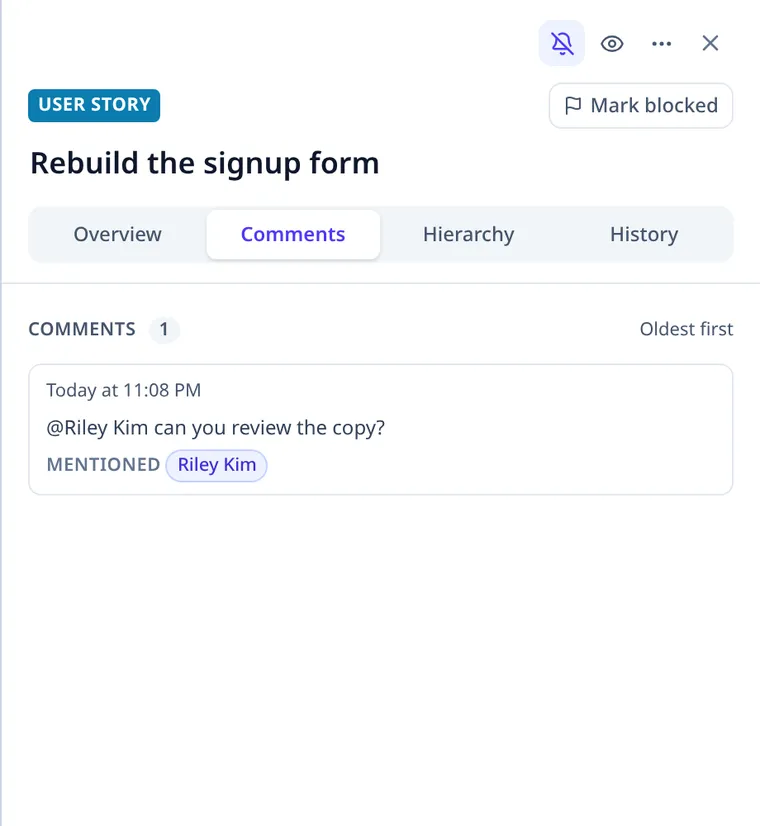
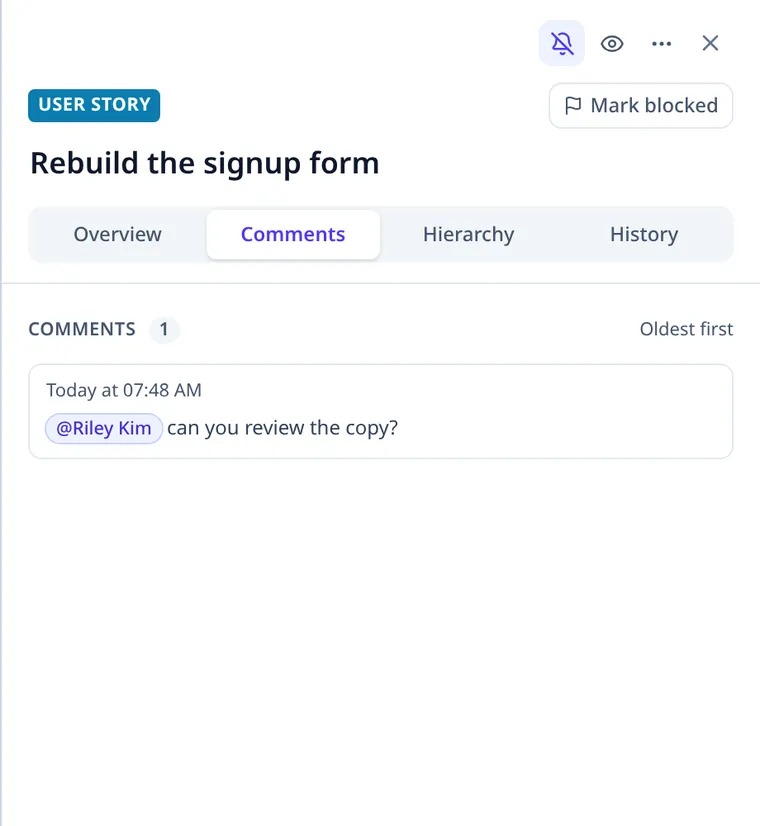
drawer: a mention is a pill in the sentence, not a second row
A comment rendered its note as plain text and then repeated every mentioned
person in a "Mentioned" row beneath it. The mention is now marked where the
name was written: the `@Name` span becomes an inline pill, using the same
boundary rules as `mentionedIds`, and the repeating row is gone.

The words shown are the words that were written; the pill marks who they
meant. Code spans are left alone — a name inside code is literal. The comment
e2e now asserts the pill and the absence of the old row, and the guide image
is regenerated.

Changed region(s): [[0.0605, 0.454, 0.5145, 0.6053]]

diff --git a/src/lib/mentionMarkup.ts b/src/lib/mentionMarkup.ts
@@ -1,0 +1,71 @@
+import type { User } from '@/domain/types'
+import { renderMarkdown } from './markdown'
+
+/** Text that may sit before an `@` without making it an email address. */
+const BEFORE = /[\s([{"'`]/
+/** Text that ends a name in a sentence. */
+const AFTER = /[\s.,!?;:()[\]{}"'`]/
+
+const PILL =
+  'rounded-full bg-indigo-50 px-1.5 py-px text-micro font-medium text-indigo-700 ring-1 ring-indigo-200'
+
+const escape = (value: string) => value.replace(/[.*+?^${}()|[\]\\]/g, '\\$&')
+
+/**
+ * A comment's markdown, with the people it mentions marked as pills in the sentence.
+ *
+ * The words are what was written (`@Riley Kim`), and the entry records who that was. The pill is
+ * therefore a rendering of the sentence, not a second list repeating it — the mention row that
+ * used to sit under the comment said the same name twice. The boundary rules are the ones
+ * `mentionedIds` uses, so an email address or a name without the `@` is left alone.
+ */
+export function renderCommentMarkdown(
+  markdown: string,
+  mentionIds: readonly string[],
+  users: readonly User[],
+): string {
+  const html = renderMarkdown(markdown)
+  if (!mentionIds.length || typeof document === 'undefined') return html
+
+  const names = mentionIds
+    .map((id) => users.find((user) => user.id === id)?.name)
+    .filter((name): name is string => Boolean(name))
+    .sort((a, b) => b.length - a.length)
+  if (!names.length) return html
+
+  const container = document.createElement('div')
+  container.innerHTML = html
+
+  const pattern = new RegExp(`@(${names.map(escape).join('|')})`, 'gi')
+  const walker = document.createTreeWalker(container, NodeFilter.SHOW_TEXT)
+  const nodes: Text[] = []
+  while (walker.nextNode()) nodes.push(walker.currentNode as Text)
+
+  for (const node of nodes) {
+    // Code is literal: a name in a code span is not a mention rendered by this layer.
+    if (node.parentElement?.closest('code, pre')) continue
+    const value = node.nodeValue ?? ''
+    const fragment = document.createDocumentFragment()
+    let last = 0
+    let match: RegExpExecArray | null
+    pattern.lastIndex = 0
+    while ((match = pattern.exec(value))) {
+      const at = match.index
+      if (at > 0 && !BEFORE.test(value[at - 1])) continue
+      const after = value[at + match[0].length]
+      if (after !== undefined && !AFTER.test(after)) continue
+      fragment.append(value.slice(last, at))
+      const pill = document.createElement('span')
+      pill.className = PILL
+      pill.dataset.mentionPill = ''
+      pill.textContent = match[0]
+      fragment.append(pill)
+      last = at + match[0].length
+    }
+    if (last === 0) continue
+    fragment.append(value.slice(last))
+    node.replaceWith(fragment)
+  }
+
+  return container.innerHTML
+}

diff --git a/src/components/ItemPanel.tsx b/src/components/ItemPanel.tsx
@@ -17,7 +17,7 @@ import { periodNameOf } from '@/domain/periods'
 import { lanePath, STAGE_LABELS } from '@/domain/lanes'
 import { initiativeHealth } from '@/domain/health'
 import { insertMention, mentionQueryAt, mentionedIds } from '@/domain/mentions'
-import { renderMarkdown } from '@/lib/markdown'
+import { renderCommentMarkdown } from '@/lib/mentionMarkup'
 import { DescriptionEditor } from './DescriptionEditor'
 import { PRIORITY_META, PRIORITY_ORDER } from './PriorityBadge'
 import { DueChip } from './DueChip'
@@ -1860,22 +1860,10 @@ export function ItemPanel({ itemId }: Props) {
                       </div>
                       <div
                         className="mt-1 text-meta leading-relaxed text-slate-700"
-                        dangerouslySetInnerHTML={{ __html: renderMarkdown(entry.note ?? '') }}
+                        dangerouslySetInnerHTML={{
+                          __html: renderCommentMarkdown(entry.note ?? '', entry.mentions ?? [], users),
+                        }}
                       />
-                      {entry.mentions?.length ? (
-                        <div data-mention-chips className="mt-1 flex flex-wrap items-center gap-1">
-                          <span className="text-micro font-semibold uppercase tracking-wide text-slate-500">Mentioned</span>
-                          {entry.mentions.map((id) => (
-                            <span
-                              key={id}
-                              data-mention-chip={id}
-                              className="rounded-full bg-indigo-50 px-1.5 py-px text-micro font-medium text-indigo-700 ring-1 ring-indigo-200"
-                            >
-                              {nameOfUser(users, id)}
-                            </span>
-                          ))}
-                        </div>
-                      ) : null}
                     </article>
                   )
                 })}

diff --git a/e2e/mentions.spec.ts b/e2e/mentions.spec.ts
@@ -24,8 +24,10 @@ test('a comment mentions a teammate, and the mention comes back in My work', asy
 
   await note.pressSequentially('can you review the copy?')
   await note.press('Enter')
-  await expect(panel.locator('[data-mention-chip="u-rk"]')).toContainText('Riley Kim')
+  await expect(panel.locator('[data-mention-pill]')).toContainText('@Riley Kim')
   await expect(panel).toContainText('can you review the copy?')
+  // The pill is in the sentence; there is no second "Mentioned" row repeating the name.
+  await expect(panel.getByText('Mentioned', { exact: true })).toHaveCount(0)
   // Flat by construction: there is no reply or thread control on a note.
   await expect(panel.getByRole('button', { name: /reply/i })).toHaveCount(0)
 

diff --git a/e2e/history.spec.ts b/e2e/history.spec.ts
@@ -90,7 +90,7 @@ test('a browser that never held the history still reads it', async ({ browser })
   await expect(drawer.locator('[data-comments-loading]')).toHaveCount(0)
   await expect(drawer).toContainText(NOTE)
   await expect(drawer.locator('[data-comment-entry]')).toContainText('Ada Lovelace')
-  await expect(drawer.locator('[data-mention-chip]')).toContainText('Ada Lovelace')
+  await expect(drawer.locator('[data-mention-pill]')).toContainText('Ada Lovelace')
 
   // Search finds the note, though the card this browser loaded carries no history.
   await drawer.getByTitle('Close').click()

diff --git a/docs/using.md b/docs/using.md
@@ -125,14 +125,14 @@ record of changes — every move, edit, block and link, with who and when.
 Comments, the parent in Hierarchy and the changes in History.*
 
 A comment is written at the bottom of **Comments**, and typing `@` offers a teammate to mention.
-Mentions are flat: there are no replies and no threads. The person is recorded on the comment, named
-beneath it in **Comments**, and the comment appears under **Mentions** in **My work** — the place that
-brings a mention back to the person it names.
+Mentions are flat: there are no replies and no threads. The person is recorded on the comment and
+shown as a pill in the sentence, and the comment appears under **Mentions** in **My work** — the
+place that brings a mention back to the person it names.
 
-<img src="img/guide/mention-comments.webp" alt="Comments in the card drawer showing a comment that mentions Riley Kim, with the mention named beneath it" width="420">
+<img src="img/guide/mention-comments.webp" alt="Comments in the card drawer showing a comment with a mention of Riley Kim marked as a pill in the sentence" width="420">
 
-*A mention is part of the comment: the name stays in the sentence and the person it means is recorded
-beside it.*
+*A mention is part of the comment: the name stays in the sentence as a pill, and the person it means
+is recorded on the entry.*
 
 The checklist holds the card's sub-tasks. A card can wait on another: the waiting state is read from
 the two ends, so it clears when the blocker reaches Done — there is nothing to update by hand.
